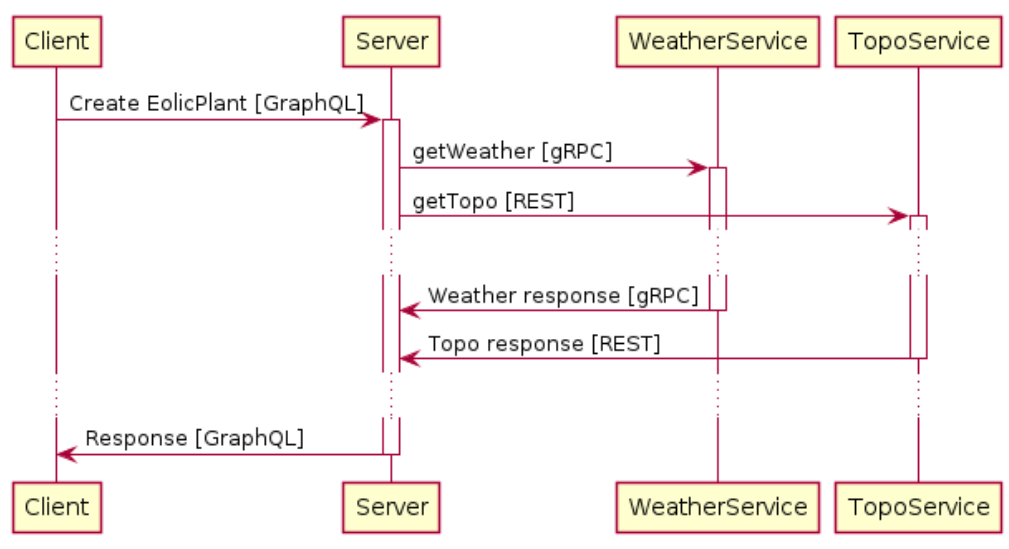
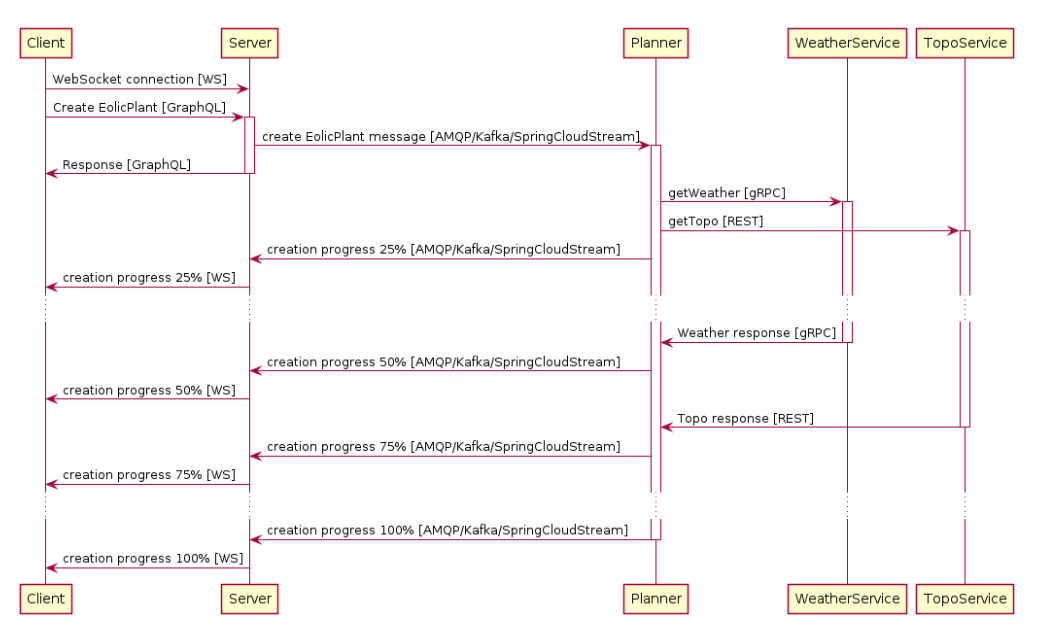
cambio readme

diff --git a/README.MD b/README.MD
@@ -1,11 +1,12 @@
-# Práctica 3 Comunicaciones (REST,gRPC y GraphQL)
+# Práctica 4 Comunicaciones (WebSocket, Kafka, REST, gRPC y GraphQL)
 
 ## Description
 
 Aplicación distribuida para la generación de plantas eólicas: EoloPlanner.
 Esta aplicación está compuesta por los siguientes servicios:
 - Client: Código JavaScript ejecutado en un navegador web.
-- Server: Servidor web que expone una API GraphQL que será usada por el cliente.
+- Server: Servidor web que expone una API GraphQL y comunicaciones WebSocket que será consumida por el cliente.
+- Planner: Servidor que comunica con las colas de Kafka generando mensajes de progreso según comunica con los siguientes servicios.
 - WeatherService: Devuelve información meteorológica.
 - TopoService: Devuelve información sobre la orografía del terreno.
 Estos servicios se comunican de la siguiente forma:
@@ -13,10 +14,11 @@ Estos servicios se comunican de la siguiente forma:
 ![secuencia](./images/secuencia.png)
 
 A continuación se detalla esta comunicación:
-- Client usa la API GraphQL para enviar una petición de creación de una Planta Eólica (Create EolicPlant).
-- Cuando el Server recibe la petición de creación de una nueva planta eólica del Client, solicita la información meteorológica y topográfica a los servicios WeatherService y TopoService respectivamente.
-- El servicio WeatherService ofrecer una interfaz gRPC.
-- El servicio TopoService ofrece una interfaz REST.
+- Client: Código JavaScript ejecutado en un navegador web.
+- Server: Servidor web que expone una API GraphQL y un endpoint WebSockets que será usado por el cliente. Las peticiones solicitadas se las redirige al Planner de forma asíncrona a través de colas de mensajes.
+- Planner: Módulo que realiza la planificación de la planta eólica, obteniendo la información del WeatherService y el TopoService y comunicando el progreso al Server.
+- WeatherService: Devuelve información meteorológica.
+- TopoService: Devuelve información sobre la orografía del terreno.
 
 ## System requirements
 
@@ -35,7 +37,8 @@ Descarga las dependencias y construye los 3 proyectos
 
     > node exec_aux_services.js
 
-El script descargará e iniciará las imagenes de MySQL y Mongo necesarias para persistir la información.
+El script descargará e iniciará las imagenes de MySQL, Mongo  necesarias para persistir la información y lensesio/fast-data-dev (Kafka) 
+para la gestion de las colas.
 
 ## Setup 
 
@@ -44,8 +47,9 @@ El script descargará e iniciará las imagenes de MySQL y Mongo necesarias para 
 Este script levanta las 3 aplicaciones:
 
 - weatherservice : http://localhost:9090 (gRPC)
-- toposervice : http://localhost:8080 (REST)
-- server : http://localhost:3000 (GraphQL)
+- toposervice : http://localhost:8089 (REST)
+- planner : http://localhost:8088 (Kafka)
+- server : http://localhost:3000 (GraphQL y WS)
 
 ## Predefined data
 
